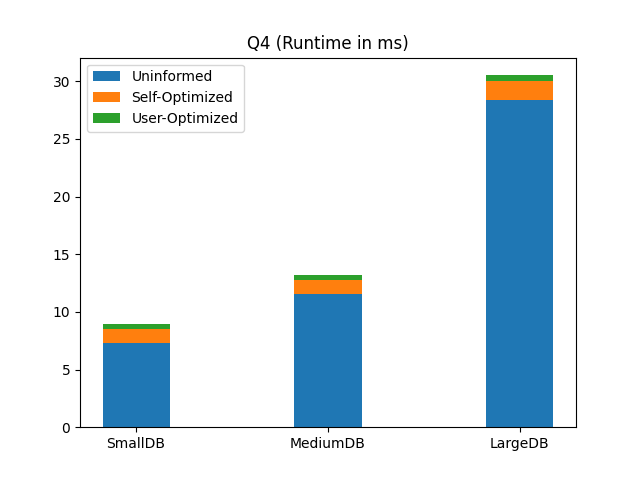
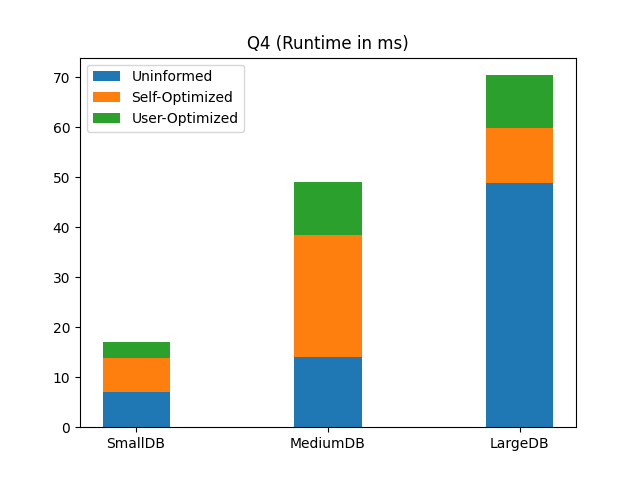
henlo v3

diff --git a/Q4A3.py b/Q4A3.py
@@ -123,7 +123,6 @@ def db_user_optimized(path):
     global connection, cursor
     connect(path)
     # user_optimized()
-    uninformed()
     cursor.execute('CREATE INDEX Sellerid1 ON Sellers (seller_id)')
     cursor.execute('CREATE INDEX Sellerid ON Order_items (seller_id)')
     cursor.execute('CREATE INDEX orderid ON Order_items (order_id)')
